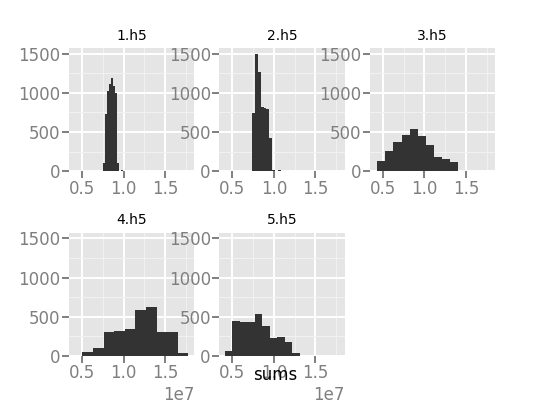
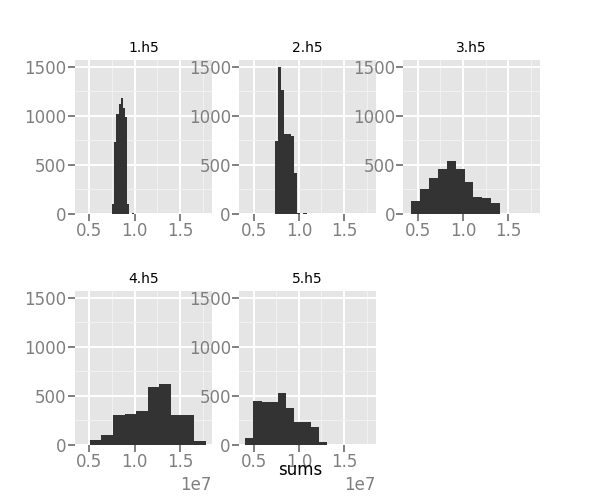
derp

diff --git a/verify/make_hist.py b/verify/make_hist.py
@@ -31,15 +31,15 @@ fn = out_extra + 'sum_density_z.png'
 p = ggplot(aes(x='z', y='sums', colour='dataset'), data=df)
 p_dens = p + geom_point() + facet_wrap('dataset', ncol=3) + xlab("z axis") + \
     ylabel
-p_dens.save(path + fn, width=5.5, height=4)
+p_dens.save(path + fn, width=6, height=5)
 
 fn = out_extra + 'sum_density_t.png'
 p = ggplot(aes(x='t', y='sums', colour='dataset'), data=df)
 p_dens2 = p + geom_point() + facet_wrap('dataset', ncol=3) + xlab("Frames") + \
     ylabel
-p_dens2.save(path + fn, width=5.5, height=4)
+p_dens2.save(path + fn, width=6, height=5)
 
 fn = out_extra + 'sum_hist.png'
 p = ggplot(aes(x='sums'), data=df)
 p_hist = p + geom_histogram() + facet_wrap('dataset', ncol=3)
-p_hist.save(path + fn, width=5.5, height=4)
+p_hist.save(path + fn, width=6, height=5)
